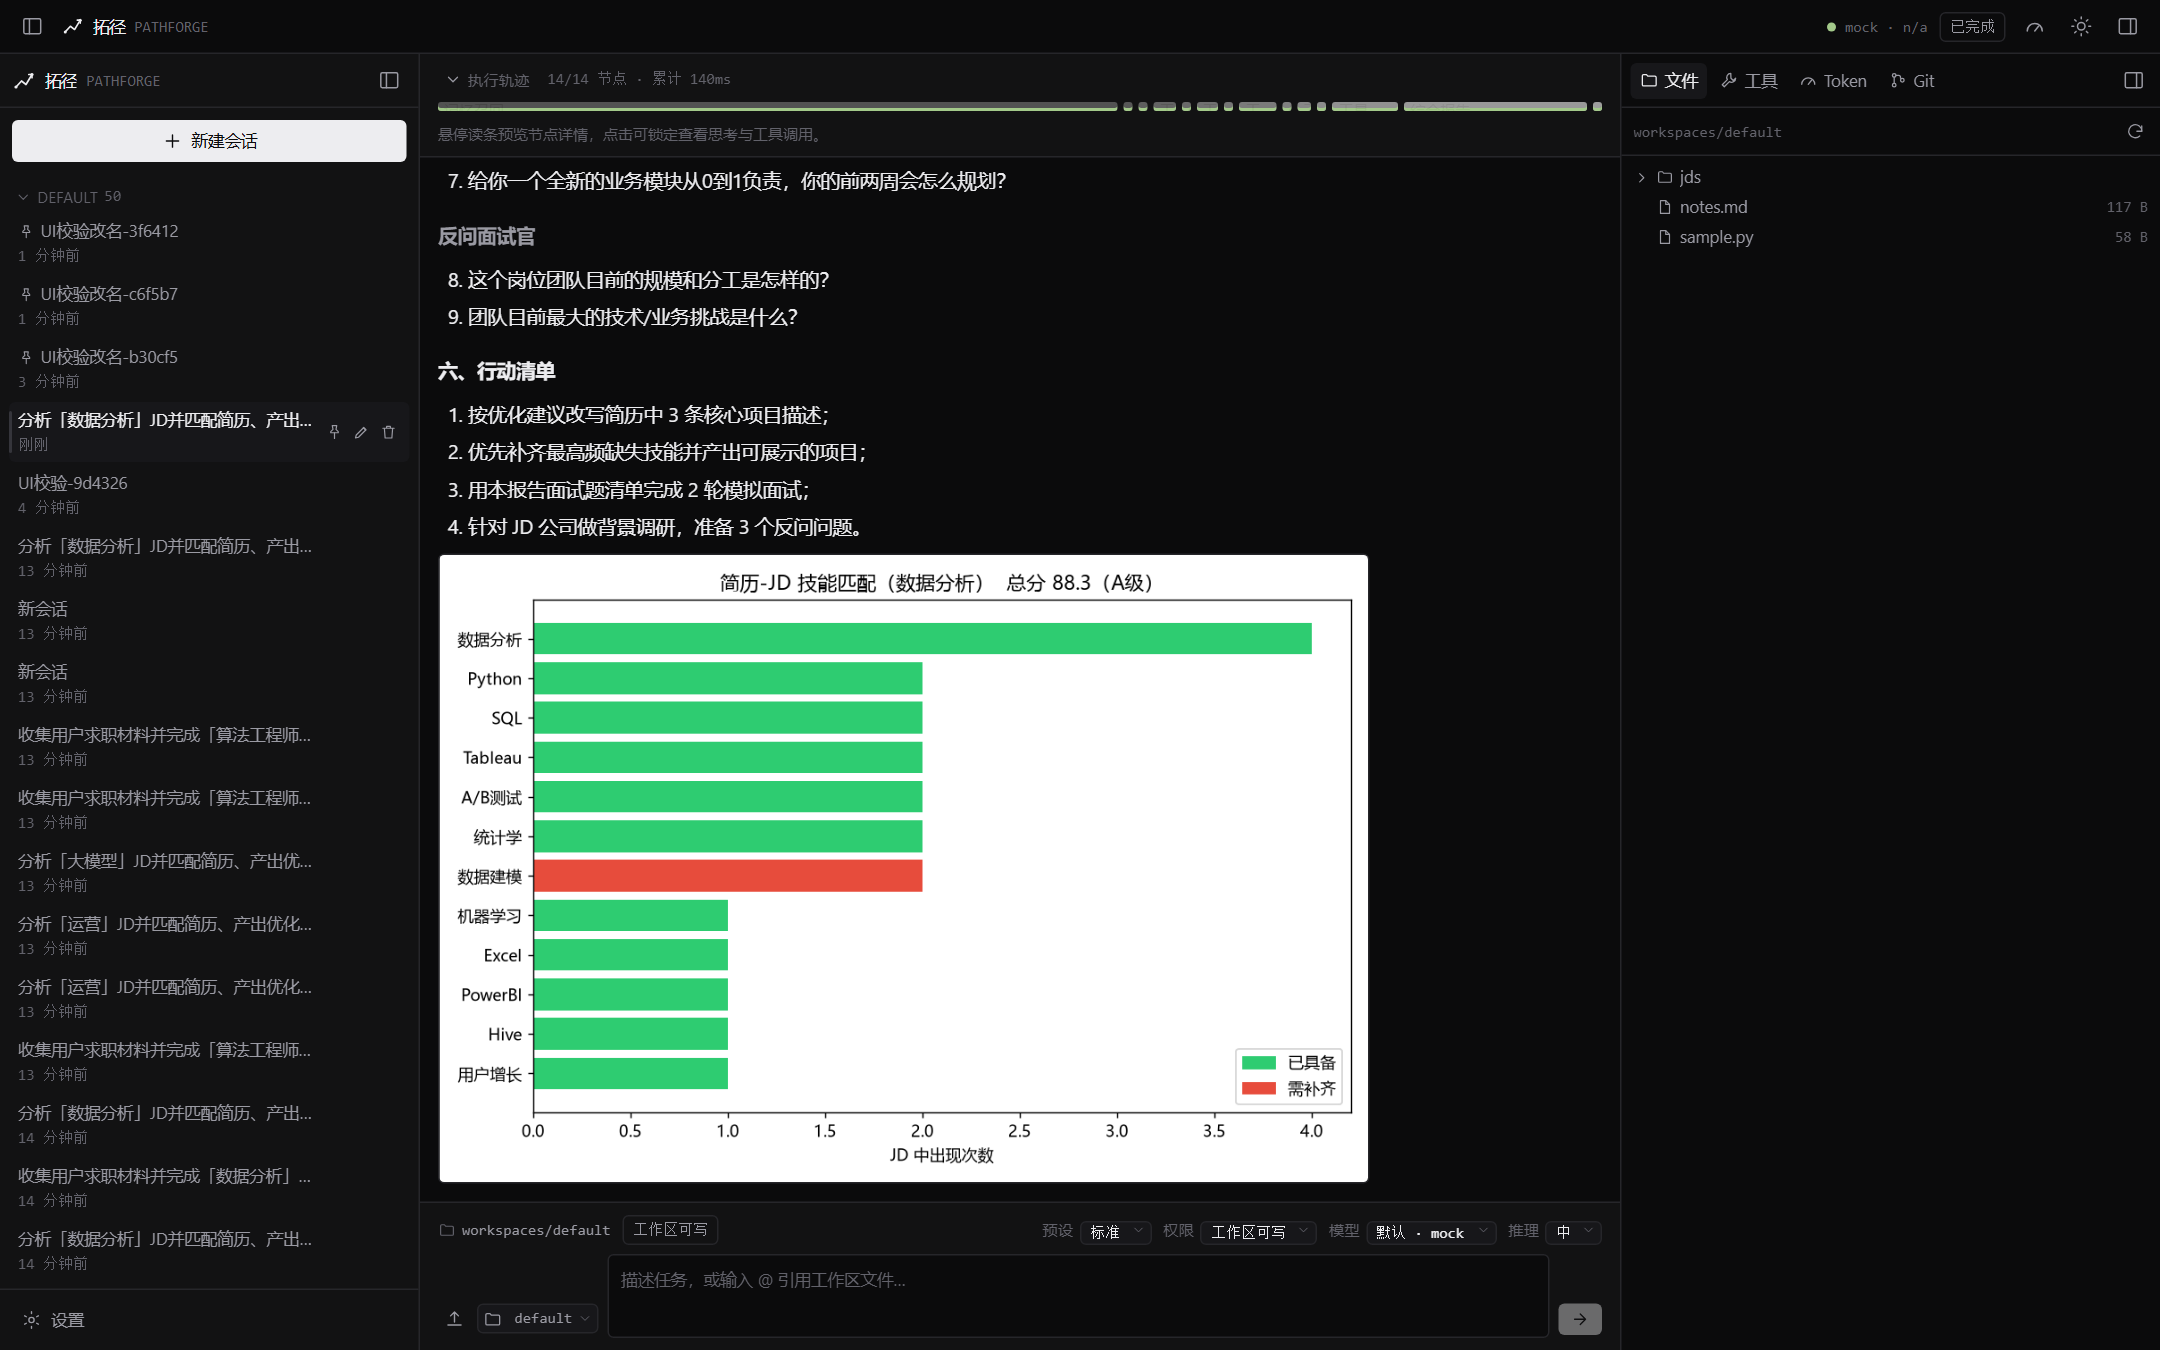
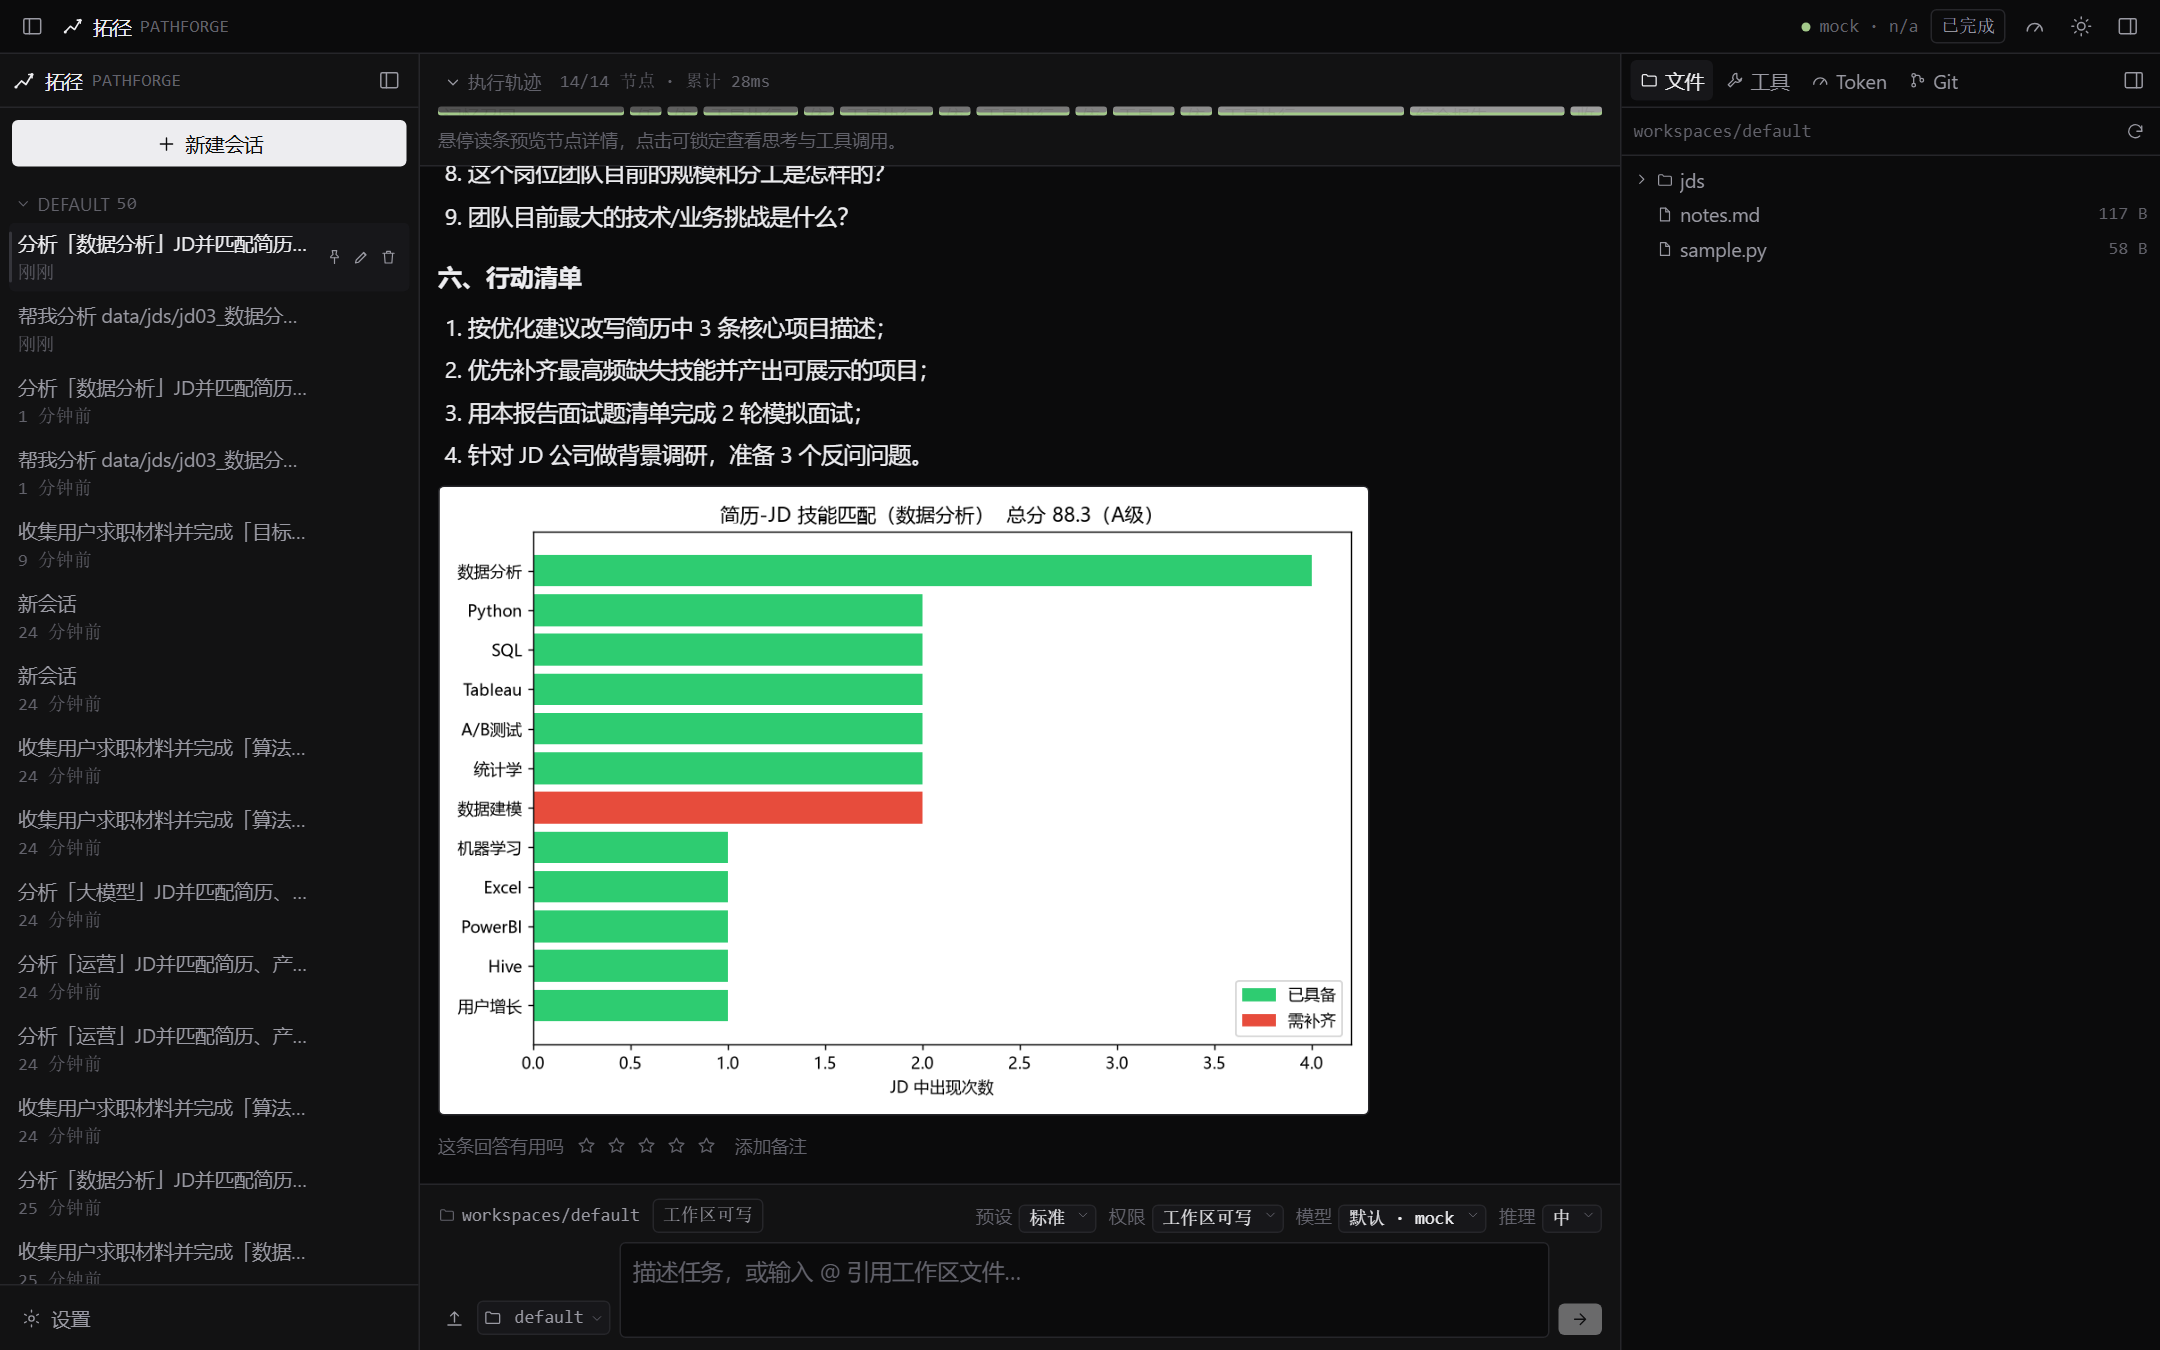
style(ui): 上调全局字号档位，提升正文与输入的阅读舒适度
用户反馈界面字体偏小。原字号阶梯是开发工具密度（基准 13px，标签 10–11px），
在长报告阅读场景下确实吃力；本次整体上调一档，对齐主流对话式网页端的可读性档位。

字号阶梯（tailwind.config.js，行高同步放大，否则中文会更显拥挤）：
  2xs 10→12px / xs 11→13px / sm 12→14px / base 13→15px / md 14→16px，新增 lg 18px

配套调整（都是字号变化后的必要跟随项）：
- body 13px/20px → 15px/24px，与 text-base 对齐，未显式设字号的文本同档
- 消息正文（.pf-md）行内代码 13→14px、表格 13→14px、h1 16→18px、h2 15→16px
- 代码块内联 fontSize 12→14px、内边距同步加大
- 输入框补 text-base：此前正文 15px 而输入框仍 13px，打字处反而更小
- InputBox 的 LINE_HEIGHT 20→24：该常量参与 textarea 自动增高计算，
  与 CSS 行高不同步会导致行数算错（裁字或留白）
- 消息气泡内边距 px-2.5 py-1.5 → px-3 py-2，配合更大的字重
- 设置弹窗 420→480px 高、宽 640→680px，容纳放大后的内容

验证：tsc exit 0、vite build 通过、交互实机校验 33/33、
浏览器零异常零失败请求、无横向溢出（逐元素 scrollWidth 检测）、
实测 computed 字号 textarea/body 均 15px、.pf-label/.pf-tag 12px、.pf-btn/.pf-input 13px

diff --git a/frontend/src/index.css b/frontend/src/index.css
@@ -62,8 +62,9 @@ body {
   margin: 0;
   background: var(--pf-bg);
   color: var(--pf-text);
-  font-size: 13px;
-  line-height: 20px;
+  /* 与 tailwind 的 text-base（15px/24px）对齐：未显式指定字号的文本也保持同一档位 */
+  font-size: 15px;
+  line-height: 24px;
   -webkit-font-smoothing: antialiased;
   text-rendering: optimizeLegibility;
 }
@@ -163,10 +164,10 @@ textarea {
   @apply mb-2 mt-4 font-semibold text-pf-text;
 }
 .pf-md h1 {
-  @apply text-md;
+  @apply text-lg;
 }
 .pf-md h2 {
-  @apply text-base;
+  @apply text-md;
 }
 .pf-md h3 {
   @apply text-base text-pf-muted;
@@ -188,19 +189,19 @@ textarea {
   @apply text-pf-text underline decoration-pf-border-strong underline-offset-2;
 }
 .pf-md code {
-  @apply rounded bg-pf-surface px-1 py-0.5 font-mono text-xs;
+  @apply rounded bg-pf-surface px-1 py-0.5 font-mono text-sm;
 }
 .pf-md pre {
-  @apply my-2 overflow-x-auto rounded-md border border-pf-border bg-pf-surface p-2.5;
+  @apply my-2 overflow-x-auto rounded-md border border-pf-border bg-pf-surface p-3;
 }
 .pf-md pre code {
-  @apply bg-transparent p-0 text-xs;
+  @apply bg-transparent p-0 text-sm;
 }
 .pf-md blockquote {
   @apply my-2 border-l-2 border-pf-border-strong pl-3 text-pf-muted;
 }
 .pf-md table {
-  @apply my-2 w-full border-collapse text-xs;
+  @apply my-2 w-full border-collapse text-sm;
 }
 .pf-md th,
 .pf-md td {

diff --git a/frontend/tailwind.config.js b/frontend/tailwind.config.js
@@ -39,12 +39,16 @@ export default {
         mono: ['SFMono-Regular', 'JetBrains Mono', 'Menlo', 'Consolas',
                'Liberation Mono', 'monospace'],
       },
+      // 字号阶梯：对齐主流对话式网页端的可读性档位（正文 15px / 次级 13px / 标签 12px）。
+      // 原先 10–13px 的开发工具密度在真实阅读场景下偏小，用户反馈"字太小"即源于此，
+      // 因此整体上调一档并同步放大行高（行高不跟着涨会让中文显得更挤）。
       fontSize: {
-        '2xs': ['10px', { lineHeight: '14px' }],
-        xs: ['11px', { lineHeight: '16px' }],
-        sm: ['12px', { lineHeight: '18px' }],
-        base: ['13px', { lineHeight: '20px' }],
-        md: ['14px', { lineHeight: '22px' }],
+        '2xs': ['12px', { lineHeight: '17px' }],
+        xs: ['13px', { lineHeight: '19px' }],
+        sm: ['14px', { lineHeight: '21px' }],
+        base: ['15px', { lineHeight: '24px' }],
+        md: ['16px', { lineHeight: '26px' }],
+        lg: ['18px', { lineHeight: '28px' }],
       },
       spacing: {
         rail: '56px',

diff --git a/frontend/src/components/InputBox.tsx b/frontend/src/components/InputBox.tsx
@@ -54,7 +54,9 @@ const EFFORTS: { id: ReasoningEffort; label: string }[] = [
 /** 自动增高区间（行）：2 行起步，10 行封顶 */
 const MIN_ROWS = 2
 const MAX_ROWS = 10
-const LINE_HEIGHT = 20
+// 与 textarea 的 `leading-6`（24px）保持一致：这里算高度、CSS 决定实际行高，
+// 两者不同步会导致输入框行数算错（文字被裁或底部留白）
+const LINE_HEIGHT = 24
 const BOX_PADDING = 16
 
 export default function InputBox({
@@ -362,7 +364,7 @@ export default function InputBox({
 
         <textarea
           ref={taRef}
-          className="pf-input flex-1 resize-none py-1.5 leading-5"
+          className="pf-input flex-1 resize-none py-1.5 text-base leading-6"
           style={{ height: MIN_ROWS * LINE_HEIGHT + BOX_PADDING }}
           value={text}
           placeholder="描述任务，或输入 @ 引用工作区文件…"

diff --git a/frontend/src/components/SettingsModal.tsx b/frontend/src/components/SettingsModal.tsx
@@ -186,7 +186,7 @@ export default function SettingsModal() {
         aria-modal="true"
         aria-label="设置"
         onClick={(e) => e.stopPropagation()}
-        className="pf-card flex h-[420px] w-full max-w-[640px] animate-pf-fade-in overflow-hidden bg-pf-elevated"
+        className="pf-card flex h-[480px] w-full max-w-[680px] animate-pf-fade-in overflow-hidden bg-pf-elevated"
       >
         {/* 左侧竖排 Tab */}
         <nav className="flex w-[168px] shrink-0 flex-col border-r border-pf-border bg-pf-bg px-1.5 py-2">

diff --git a/frontend/src/components/MessageList.tsx b/frontend/src/components/MessageList.tsx
@@ -149,7 +149,7 @@ function MessageRow({ message, showCursor, feedback }: {
   if (message.role === 'user') {
     return (
       <div className="flex justify-end">
-        <div className="max-w-[78%] whitespace-pre-wrap break-words rounded bg-pf-surface px-2.5 py-1.5 text-base text-pf-text">
+        <div className="max-w-[78%] whitespace-pre-wrap break-words rounded bg-pf-surface px-3 py-2 text-base text-pf-text">
           {message.content}
         </div>
       </div>

diff --git a/frontend/src/components/CodeBlock.tsx b/frontend/src/components/CodeBlock.tsx
@@ -122,9 +122,9 @@ export default function CodeBlock({ code, language, inline, className }: CodeBlo
         customStyle={{
           margin: 0,
           background: 'transparent',
-          padding: '10px 12px',
-          fontSize: 12,
-          lineHeight: 1.6,
+          padding: '12px 14px',
+          fontSize: 14,
+          lineHeight: 1.65,
         }}
         codeTagProps={{ style: { fontFamily: 'inherit' } }}
         wrapLongLines={false}
